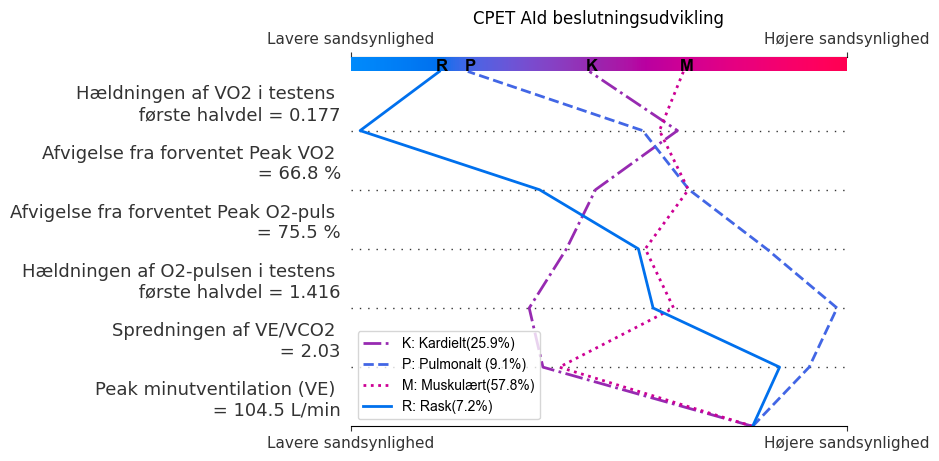
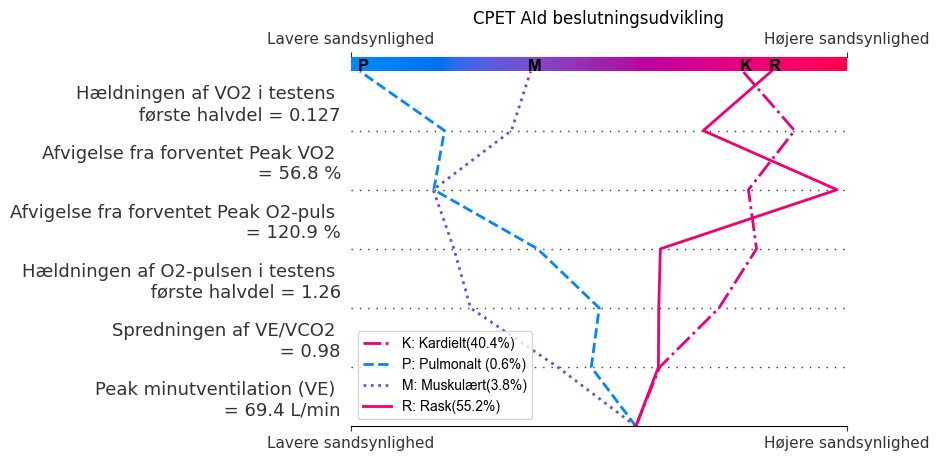
Fjernede lige 2 kommentare

diff --git a/CPET-AId/ML_model.py b/CPET-AId/ML_model.py
@@ -2,7 +2,6 @@ from xgboost import XGBClassifier
 import os
 
 CPETAIdModel = XGBClassifier()
-# CPETAIdModel.load_model("CPET-AId/CPET-AId/CPETAId_model.json")
 
 current_dir = os.path.dirname(os.path.abspath(__file__))
 model_path = os.path.join(current_dir, "CPETAId_model.json")

diff --git a/CPET-AId/Post_processering.py b/CPET-AId/Post_processering.py
@@ -23,7 +23,6 @@ def post_processing(Peak_R, pre_processed_data):
 
     # Loader ML-modellen
     CPETAIdModel = XGBClassifier()
-    # CPETAIdModel.load_model("CPET-AId/CPET-AId/CPETAId_model.json")
 
     current_dir = os.path.dirname(os.path.abspath(__file__))
     model_path = os.path.join(current_dir, "CPETAId_model.json")